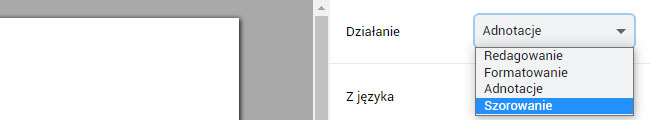
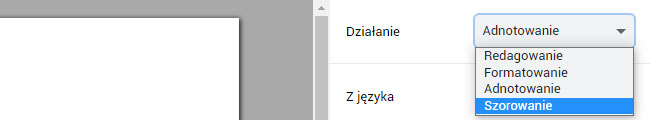
Finished Polish user guide (issue #196). Updated Polish UI text.

Changed region(s): [[0.7692, 0.2, 0.8615, 0.325], [0.8, 0.675, 0.8615, 0.8]]

diff --git a/_locales/pl/user-guide.html b/_locales/pl/user-guide.html
@@ -17,7 +17,7 @@
     <p><img src="https://raw.githubusercontent.com/chung-leong/conradish-x/development/doc/img/pl/annotate-1.jpg" alt="Annotation menu"></p>
     <p>Jeśli język <b>Na język</b> określony na pasku bocznym różni się od języka <b>Z języka</b>, Conradish wyszuka definicję w Tłumaczu Google i wstawi ją automatycznie jako przypis:</p>
     <p><img src="https://raw.githubusercontent.com/chung-leong/conradish-x/development/doc/img/pl/footnote-1.jpg" alt="Footnote"></p>
-    <p>Jeśli język <b>Na język</b> odpowiada językowi <b>Z języka</b> lub jeśli wybrano opcję „Żadny”, musisz samodzielnie wprowadzić definicję.</p>
+    <p>Jeśli język <b>Na język</b> odpowiada językowi <b>Z języka</b> lub jeśli wybrano opcję „Żadny”, musisz sam wprowadzić definicję.</p>
     <p><img src="https://raw.githubusercontent.com/chung-leong/conradish-x/development/doc/img/pl/footnote-2.jpg" alt="Footnote"></p>
     <p>Możesz cofnąć wynik, naciskając <b>Ctrl-Z</b> na klawiaturze.</p>
     <h3>Dodawanie tłumaczenia/wyjaśnienia</h3>
@@ -27,25 +27,25 @@
     <p><img src="https://raw.githubusercontent.com/chung-leong/conradish-x/development/doc/img/pl/footnote-3.jpg" alt="Footnote"></p>
     <p>Funkcja <b>Dodaj tłumaczenie</b> różni się od <b>Dodaj definicję</b> tym, że oryginalny tekst jest pomijany w przypisie.</p>
     <p>Zarówno <b>Dodaj definicję</b>, jak i <b>Dodaj tłumaczenie</b> pojawią się w menu po wybraniu więcej niż jednego słowa (ale mniej niż 8).</p>
-    <p><b>Dodaj wyjaśnienie</b> pojawi się w menu, gdy nie nastąpi żadne tłumaczenie (język <b>Na język</b> jest taki sam, jak język <b>Z języka</b> lub „Żadny” jest wybrany).</p>
-    <h3>Wybór alternatywnego tłumaczenia</h3>
-    <p>Aby wybrać alternatywne tłumaczenie, kliknij część definicji przypisu i wybierz z wyskakującego menu:</p>
+    <p><b>Dodaj wyjaśnienie</b> pojawi się w menu, gdy nie nastąpi żadne tłumaczenie (język <b>Na język</b> jest taki sam, jak język <b>Z języka</b> lub opcja „Żadny” jest wybrana).</p>
+    <h3>Wybieranie alternatywnego tłumaczenia</h3>
+    <p>Aby wybrać alternatywne tłumaczenie, kliknij definicję w przypisie i wybierz z wyskakującego menu:</p>
     <p><img src="https://raw.githubusercontent.com/chung-leong/conradish-x/development/doc/img/pl/footnote-5.jpg" alt="Footnote"></p>
-    <h3>Usuwanie przypisów</h3>
+    <h3>Usuwanie przypisu</h3>
     <p>Aby usunąć przypis, po prostu usuń powiązany numer przypisu:</p>
     <p><img src="https://raw.githubusercontent.com/chung-leong/conradish-x/development/doc/img/footnote-number-1.jpg" alt="Footnote number"></p>
     <p>Lub usuń przypis:</p>
     <p><img src="https://raw.githubusercontent.com/chung-leong/conradish-x/development/doc/img/pl/footnote-4.jpg" alt="Footnote"></p>
-    <h2>Edycja artykułu</h2>
-    <p>Możesz wprowadzać zmiany w artykule w tym samym czasie, gdy dodajesz do niego adnotacje. Wyskakujące menu, które pojawia się po zaznaczeniu tekstu, może jednak rozpraszać uwagę. Aby ją wyłączyć, wybierz „Redagowanie” z menu rozwijanego <b>Akcja</b> na pasku bocznym:</p>
+    <h2>Redagowanie artykułu</h2>
+    <p>Możesz wprowadzać zmiany w artykule w tym samym czasie, gdy dodajesz do niego adnotacje. Wyskakujące menu, które pojawia się po zaznaczeniu tekstu, może jednak rozpraszać uwagę. Aby ją wyłączyć, wybierz „Redagowanie” z menu rozwijanego <b>Działanie</b> na pasku bocznym:</p>
     <p><img src="https://raw.githubusercontent.com/chung-leong/conradish-x/development/doc/img/pl/action-2.jpg" alt="Action drop-down"></p>
-    <p>Kliknij przycisk <b>Zakończ</b>, aby powrócić do trybu adnotacji.</p>
+    <p>Kliknij przycisk <b>Zakończ</b>, aby powrócić do trybu adnotowania.</p>
     <h2>Stosowanie stylu tekstu</h2>
-    <p>Aby zastosować styl tekstu do dokumentu, wybierz „Formatowanie” z menu rozwijanego <b>Akcja</b> na pasku bocznym:</p>
+    <p>Aby zastosować styl tekstu do dokumentu, wybierz „Formatowanie” z menu rozwijanego <b>Działanie</b> na pasku bocznym:</p>
     <p><img src="https://raw.githubusercontent.com/chung-leong/conradish-x/development/doc/img/pl/action-3.jpg" alt="Action drop-down"></p>
     <p>Jeśli chcesz zmienić rozmiar nagłówka, umieść w nim kursor tekstowy, a następnie kliknij jeden z przycisków na pasku narzędzi, który pojawi się poniżej:</p>
     <p><img src="https://raw.githubusercontent.com/chung-leong/conradish-x/development/doc/img/styling-1.jpg" alt="Block style toolbar"></p>
-    <p>Jeśli chcesz pogrubić lub podkreślić słowo, zaznacz słowo, a następnie kliknij odpowiedni przycisk na pasku narzędzi, który pojawi się poniżej:</p>
+    <p>Jeśli chcesz pogrubić lub podkreślić słowo, zaznacz słowo a następnie kliknij odpowiedni przycisk na pasku narzędzi, który pojawi się poniżej:</p>
     <p><img src="https://raw.githubusercontent.com/chung-leong/conradish-x/development/doc/img/styling-2.jpg" alt="Inline style toolbar"></p>
     <p>Możesz również zastosować styl, korzystając z następujących skrótów klawiszowych:</p>
     <table>
@@ -73,11 +73,11 @@
           <td>Przekreślenie</td>
         </tr>
         <tr>
-          <td><b>Ctrl-Shift-Minus</b></td>
+          <td><b>Ctrl-Shift--</b></td>
           <td>Indeks dolny</td>
         </tr>
         <tr>
-          <td><b>Ctrl-Shift-Equal</b></td>
+          <td><b>Ctrl-Shift-=</b></td>
           <td>Indek górny</td>
         </tr>
         <tr>
@@ -121,13 +121,13 @@
     <p><img src="https://raw.githubusercontent.com/chung-leong/conradish-x/development/doc/img/filter-1.jpg" alt="Initial view"></p>
     <p>Po wyświetleniu usuniętych treści:</p>
     <p><img src="https://raw.githubusercontent.com/chung-leong/conradish-x/development/doc/img/filter-2.jpg" alt="Complete view"></p>
-    <p>Usunięta zawartość zostanie wyświetlona na czerwono. Treści, które Conradish uważa za wątpliwe (ale postanowił je zachować), będą pulsować na żółto. Kliknij czerwoną sekcję, aby ją przywrócić. Kliknij sekcję, która nie jest czerwona, aby ją ukryć. Po zakończeniu kliknij przycisk <b>Zakończ</b> lub wybierz opcję „Adnotacje” z menu rozwijanego <b>Działanie</b>.</p>
-    <p>Możesz przełączać się między trybem szorowania a trybem adnotacji, naciskając klawisz skrótu <b>Ctrl-Shift-H</b>.</p>
+    <p>Usunięta zawartość zostanie wyświetlona na czerwono. Treści, które Conradish uważa za wątpliwe (ale postanowił je zachować), będą pulsować na żółto. Kliknij czerwoną sekcję, aby ją przywrócić. Kliknij sekcję, która nie jest czerwona, aby ją ukryć. Po zakończeniu kliknij przycisk <b>Zakończ</b> lub wybierz opcję „Adnotowanie” z menu rozwijanego <b>Działanie</b>.</p>
+    <p>Możesz przełączać się między trybem szorowania a trybem adnotowania, naciskając klawisz skrótu <b>Ctrl-Shift-H</b>.</p>
     <p>Użyj przycisku podwójnego znacznika wyboru w prawym dolnym rogu, aby przywrócić wszystkie usunięte sekcje:</p>
     <p><img src="https://raw.githubusercontent.com/chung-leong/conradish-x/development/doc/img/pl/bk-button-1.jpg" alt="Keep all button"></p>
     <h2>Dostosowywanie zachowania filtra</h2>
-    <p>Ustawienie filtra Conradisha określa tryb początkowy podczas otwierania dokumentu. Gdy filtrowanie jest ustawione na automatyczne, edytor uruchamia się w trybie adnotacji, z ukrytymi podejrzanymi śmieciami. Gdy filtrowanie jest ustawione na ręczne, edytor uruchamia się w trybie szorowania, umożliwiając natychmiastową korektę wyników rozszerzenia. Gdy filtrowanie jest wyłączone, edytor uruchamia się w trybie adnotacji, z widocznymi podejrzanymi wiadomościami.</p>
-    <p>W zależności od odwiedzanych witryn internetowych, jedno z tych ustawień okaże się wygodniejsze niż inne. Gdy witryna udostępnia arkusz stylów drukowania, filtrowanie nie jest na ogół konieczne. Z drugiej strony, gdy witryna przeplata się z dużą ilością reklam i na marginesie z głównym tekstem artykułu lub układ strony prowadzi do wyboru elementów nawigacyjnych, wskazane jest pozostawienie jej włączonej.</p>
+    <p>Ustawienie filtra Conradisha określa tryb początkowy podczas otwierania dokumentu. Gdy filtrowanie jest ustawione na automatyczne, edytor uruchamia się w trybie adnotowania, z ukrytymi podejrzanymi śmieciami. Gdy filtrowanie jest ustawione na ręczne, edytor uruchamia się w trybie szorowania, umożliwiając natychmiastową korektę wyników rozszerzenia. Gdy filtrowanie jest wyłączone, edytor uruchamia się w trybie adnotowania, z widocznymi podejrzanymi wiadomościami.</p>
+    <p>W zależności od odwiedzanych witryn internetowych, jedno z tych ustawień może się okażać wygodniejsze niż inne. Gdy witryna udostępnia arkusz stylów drukowania, filtrowanie nie jest na ogół konieczne. Z drugiej strony, gdy witryna przeplata wiele reklam z głównym tekstem artykułu lub układ strony prowadzi do zaznaczenia elementów nawigacyjnych, wskazane jest pozostawienie jej włączonej.</p>
     <p>Aby zmienić ustawienia filtra, kliknij przycisk rozszerzenia Chrome na pasku narzędzi, a następnie przycisk z trzema kropkami dla Conradish. W menu wybierz <b>Opcje</b>:</p>
     <p><img src="https://raw.githubusercontent.com/chung-leong/conradish-x/development/doc/img/pl/extension-menu-1.jpg" alt="Extension menu"></p>
     <p>Strona opcji Conradish otworzy się w nowej karcie:</p>
@@ -138,7 +138,7 @@
     <h2>Wybór dodatkowych czcionek</h2>
     <p>Aby udostępnić dodatkowe czcionki, kliknij <b>Czcionki</b> na pasku bocznym, a następnie nazwę odpowiedniego pisma (np. arabskiego). Zaznacz pole wyboru obok czcionki, której chcesz używać. Usuń zaznaczenie pola wyboru, jeśli nie chcesz, aby było ono wyświetlane na liście. Możesz znaleźć czcionkę, korzystając z pola wyszukiwania u góry strony, jeśli znasz nazwę.</p>
     <p><img src="https://raw.githubusercontent.com/chung-leong/conradish-x/development/doc/img/pl/options-3.jpg" alt="Options"></p>
-    <h2>Druk</h2>
+    <h2>Drukowanie dokumentu</h2>
     <p>Aby wydrukować, kliknij przycisk <b>Drukuj</b>. Pojawi się okno drukowania Chrome. Sprawdź dokładnie, czy <b>Rozmiar papieru</b> odpowiada temu, co jest ustawione w Conradish i czy <b>Marginesy</b> są ustawione na „Domyślne”. Dokument nie zostanie wydrukowany poprawnie, jeśli jedno z nich jest nieprawidłowe.</p>
     <p><img src="https://raw.githubusercontent.com/chung-leong/conradish-x/development/doc/img/pl/print-1.jpg" alt="Print window"></p>
     <h2>Znajdowanie dokumentów</h2>
@@ -146,7 +146,7 @@
     <p><img src="https://raw.githubusercontent.com/chung-leong/conradish-x/development/doc/img/pl/pop-up-1.jpg" alt="Pop-up menu"></p>
     <p>Dokumenty są uporządkowane według dat. Jeśli pamiętasz określone słowa kluczowe, możesz zawęzić wyszukiwanie, wpisując je w polu wyszukiwania.</p>
     <p><img src="https://raw.githubusercontent.com/chung-leong/conradish-x/development/doc/img/pl/search-1.jpg" alt="Search results"></p>
-    <h2>Zmiana tytułu dokumentu</h2>
+    <h2>Zmienianie tytułu dokumentu</h2>
     <p>Aby zmienić tytuł dokumentu, kliknij przycisk z trzema kropkami obok tytułu i wybierz <b>Zmień tytuł</b>:</p>
     <p><img src="https://raw.githubusercontent.com/chung-leong/conradish-x/development/doc/img/pl/change-title-1.jpg" alt="Kebab menu"></p>
     <p>Jeśli jesteś w trakcie dodawania adnotacji do dokumentu, kliknij prawym przyciskiem myszy na marginesie strony (lub gdziekolwiek poza tekstem) i wybierz <b>Zmień tytuł</b>:</p>
@@ -158,9 +158,9 @@
     <p><img src="https://raw.githubusercontent.com/chung-leong/conradish-x/development/doc/img/pl/inflection-1.jpg" alt="Document list"></p>
     <p>Następnie kliknij przycisk <b>Utwórz tabele fleksyjne</b>:</p>
     <p><img src="https://raw.githubusercontent.com/chung-leong/conradish-x/development/doc/img/pl/inflection-2.jpg" alt="Document list"></p>
-    <p>Pojawi się okno dialogowe, w którym możesz wybrać kategorie słów, które chcesz uwzględnić w powstałym dokumencie. Kliknij <b>Utwórz</b>, aby go utworzyć:</p>
+    <p>Pojawi się okno dialogowe, w którym możesz wybrać kategorie słów, które chcesz dołączyć w powstałym dokumencie. Kliknij <b>Utwórz</b>, aby go utworzyć:</p>
     <p><img src="https://raw.githubusercontent.com/chung-leong/conradish-x/development/doc/img/pl/inflection-3.jpg" alt="Document list"></p>
-    <p>Nowy dokument pojawi się w nowej zakładce:</p>
+    <p>Nowy dokument pojawi się w nowej karcie:</p>
     <p><img src="https://raw.githubusercontent.com/chung-leong/conradish-x/development/doc/img/inflection-4.jpg" alt="Inflection tables"></p>
     <p>Obecnie obsługiwane są następujące języki:</p>
     <table>
@@ -202,7 +202,7 @@
     <p><img src="https://raw.githubusercontent.com/chung-leong/conradish-x/development/doc/img/microsoft-word-1.jpg" alt="Microsoft Word"></p>
     <p>Tekst artykułu wraz z dodanymi przez Ciebie przypisami pojawią się teraz w programie Word:</p>
     <p><img src="https://raw.githubusercontent.com/chung-leong/conradish-x/development/doc/img/microsoft-word-2.jpg" alt="Microsoft Word"></p>
-    <p>Zwróć uwagę, że wersja online programu Word obecnie nie obsługuje poprawnie dołączonych przypisów. Działa tylko wersja offline programu Microsoft Word. Działa również WPS Office Writer.</p>
+    <p>Zwróć uwagę na to, że wersja online programu Word obecnie nie obsługuje poprawnie dołączonych przypisów. Działa tylko wersja offline programu Microsoft Word. WPS Office Writer działa również.</p>
     <!--EndFragment-->
   </body>
 </html>
